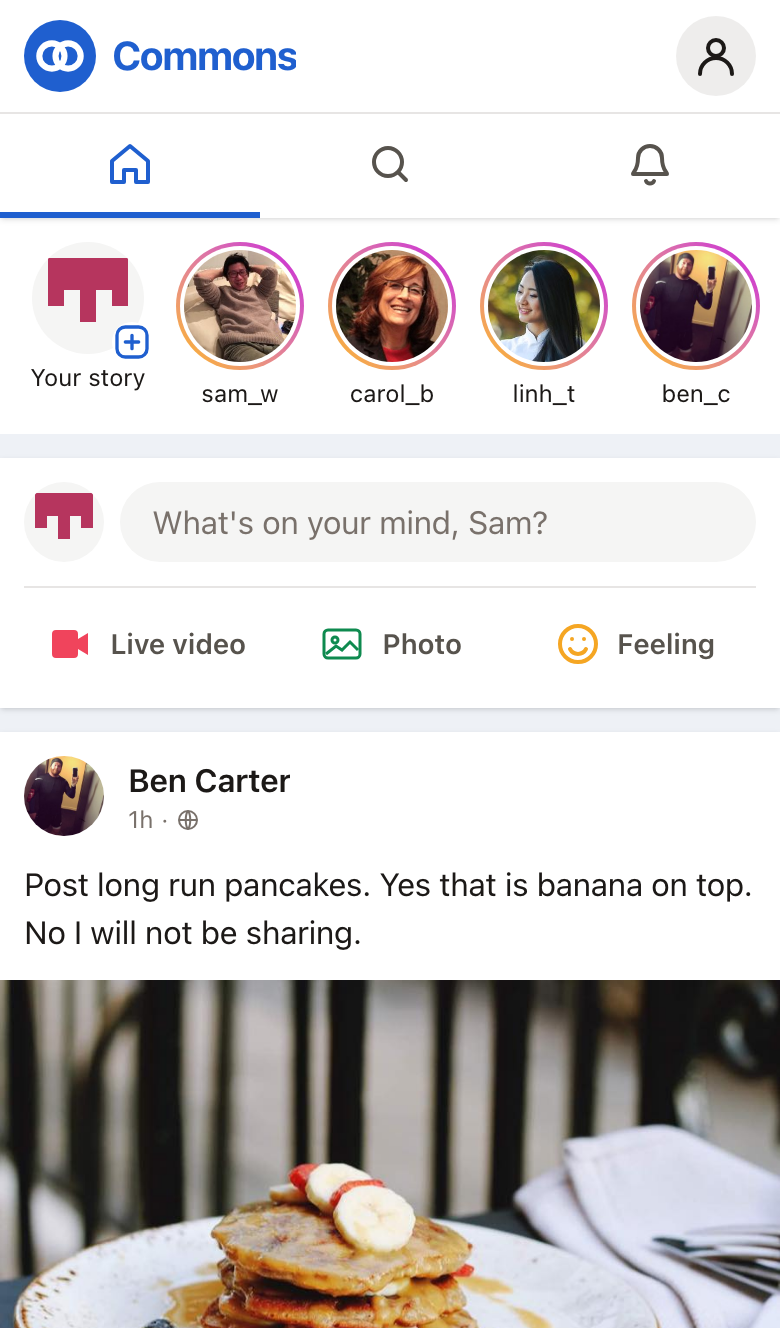
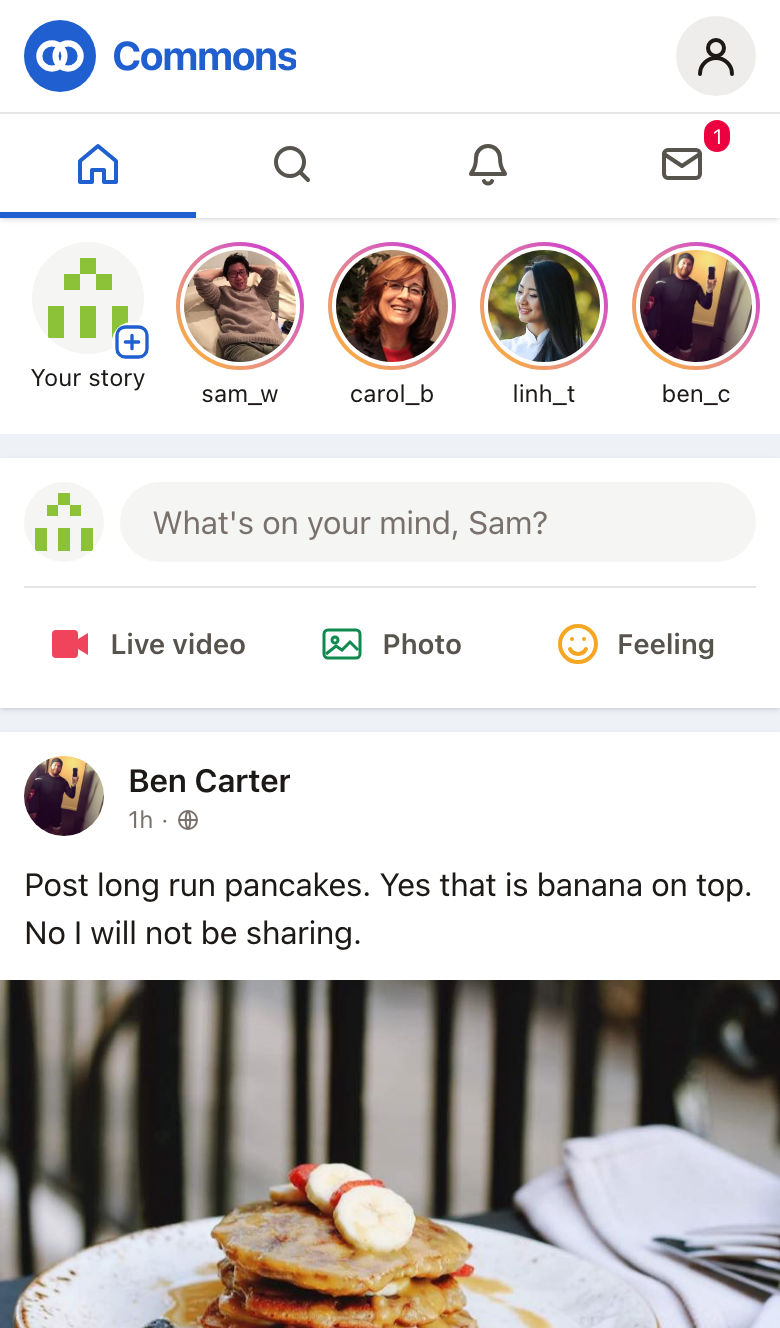
Samples that greet a new account, so Messages and Notifications aren't empty
Each kind's sample content turns on direct messages and has a few beats: a
hello as the participant arrives, and a couple of follows. The Forum sample's
communities get their own colors and fuller rules. A photo post's Reply is a
speech bubble, like the buttons beside it.

diff --git a/e2e/tests/docs-screenshots.spec.ts b/e2e/tests/docs-screenshots.spec.ts
@@ -119,6 +119,31 @@ test("takes the guide's pictures", async ({ page, browser }, testInfo) => {
     await participant.goto((await link.getAttribute("href")) as string);
     await reachFeed(participant);
     await participant.screenshot({ path: shot(`kind-${kind.file}`) });
+    // The pages beyond the feed on a phone, to look over.
+    const phoneOrigin = new URL(participant.url()).origin;
+    const firstOnPhone = async (selector: string) => {
+      const links = participant.locator(selector);
+      return (await links.count()) > 0 ? links.first().getAttribute("href") : null;
+    };
+    const phonePages: [string, string | null][] = [
+      ["someone", await firstOnPhone('article a[href^="/u/"]')],
+      ["post", await firstOnPhone('a[href^="/p/"]')],
+      ["notifications", "/notifications"],
+      ["explore", "/explore"],
+      ["spaces", "/spaces"],
+      ["messages", "/messages"],
+      ["account", "/account"],
+    ];
+    for (const [name, address] of phonePages) {
+      if (address) {
+        await participant.goto(phoneOrigin + address);
+        await participant.waitForLoadState("networkidle");
+        await participant.waitForTimeout(300);
+        await participant.screenshot({
+          path: testInfo.outputPath(`${kind.file}-phone-${name}.png`),
+        });
+      }
+    }
     await phone.close();
 
     // The same on a wide screen, where each kind lays its page out differently.
@@ -147,6 +172,9 @@ test("takes the guide's pictures", async ({ page, browser }, testInfo) => {
       ["notifications", "/notifications"],
       ["explore", "/explore"],
       ["account", "/account"],
+      ["spaces", "/spaces"],
+      ["messages", "/messages"],
+      ["rules", "/rules"],
     ];
     for (const [name, address] of more) {
       if (address) {
@@ -159,6 +187,28 @@ test("takes the guide's pictures", async ({ page, browser }, testInfo) => {
     await wide.getByRole("link", { name: "Profile" }).first().click();
     await wide.waitForLoadState("networkidle");
     await wide.screenshot({ path: testInfo.outputPath(`${kind.file}-me.png`) });
+    await wide.goto(`${origin}/messages`);
+    await wide.waitForLoadState("networkidle");
+    const talk = wide.locator('a[href^="/messages/"]');
+    if ((await talk.count()) > 0) {
+      await wide.screenshot({ path: testInfo.outputPath(`${kind.file}-messages.png`) });
+      await talk.first().click();
+      await wide.waitForLoadState("networkidle");
+      await wide.waitForTimeout(300);
+      await wide.screenshot({ path: testInfo.outputPath(`${kind.file}-conversation.png`) });
+    }
+    await wide.goto(`${origin}/notifications`);
+    await wide.waitForLoadState("networkidle");
+    await wide.screenshot({ path: testInfo.outputPath(`${kind.file}-notifications.png`) });
+    await wide.goto(`${origin}/spaces`);
+    await wide.waitForLoadState("networkidle");
+    const space = wide.locator('main a[href^="/spaces/"]');
+    if ((await space.count()) > 0) {
+      await space.first().click();
+      await wide.waitForLoadState("networkidle");
+      await wide.waitForTimeout(300);
+      await wide.screenshot({ path: testInfo.outputPath(`${kind.file}-space.png`) });
+    }
     await desk.close();
   }
 

diff --git a/packages/ui/src/features/comments.tsx b/packages/ui/src/features/comments.tsx
@@ -39,8 +39,8 @@ export function ReplyButton({
 }: {
   actions?: PostActions | undefined;
   post: Pick<FeedPost, "locked" | "removed">;
-  /** The word, or a speech bubble beside it, as a layout chooses. */
-  look?: "words" | "both";
+  /** The word, a speech bubble beside it, or the bubble alone, as a layout chooses. */
+  look?: "words" | "both" | "icon";
 }) {
   if (!useFeature("comments") || post.locked || post.removed) {
     return null;
@@ -49,11 +49,11 @@ export function ReplyButton({
     <button
       type="button"
       disabled={!actions}
-      className={look === "both" ? "flex items-center justify-center gap-1.5 py-2" : "py-3"}
+      className={look === "words" ? "py-3" : "flex items-center justify-center gap-1.5 py-2"}
       onClick={() => actions?.onReply()}
     >
-      {look === "both" && <CommentIcon className="h-5 w-5" />}
-      Reply
+      {look !== "words" && <CommentIcon {...(look === "icon" ? {} : { className: "h-5 w-5" })} />}
+      {look === "icon" ? <span className="sr-only">Reply</span> : "Reply"}
     </button>
   );
 }

diff --git a/packages/ui/src/FeedPostView.test.tsx b/packages/ui/src/FeedPostView.test.tsx
@@ -1267,3 +1267,23 @@ describe("a labeled post", () => {
     expect(screen.getByText("A post")).toBeTruthy();
   });
 });
+
+describe("replying on a photo post's own page", () => {
+  afterEach(cleanup);
+
+  it("is a speech bubble like the buttons beside it, and still called Reply", () => {
+    const onReply = vi.fn();
+    const actions = { onLike: vi.fn(), onVote: vi.fn(), onFlag: vi.fn(), onReply };
+    render(
+      <PlatformProvider platform={{ layout: "photo", features: TEMPLATES.photo.features }}>
+        <FeedPostView post={POST} detail actions={actions} />
+      </PlatformProvider>,
+    );
+
+    const reply = screen.getByRole("button", { name: "Reply" });
+    expect(reply.querySelector("svg")).toBeTruthy();
+    expect(reply.querySelector(".sr-only")?.textContent).toBe("Reply");
+    fireEvent.click(reply);
+    expect(onReply).toHaveBeenCalled();
+  });
+});

diff --git a/e2e/tests/new-study.spec.ts b/e2e/tests/new-study.spec.ts
@@ -321,9 +321,9 @@ test("a researcher writes beats in the builder, and sees what's wrong with them"
     await page.getByRole("radio", { name: /Sample content for Forum/ }).check();
   });
   await page.getByRole("link", { name: "Beats" }).click();
-  await expect(page.getByText("This study has no beats yet.")).toBeVisible();
-
+  // The sample comes with the note a new member gets, so there's something to read first.
   const beats = page.getByLabel("Beats", { exact: true });
+  await expect(beats).toHaveValue(/id: trailhead-welcomes/);
   const beat = (actor: string) => `beats:
   - id: welcome
     when: { participant: post, nth: 0 }

diff --git a/packages/ui/src/layouts/photo.tsx b/packages/ui/src/layouts/photo.tsx
@@ -173,7 +173,7 @@ export function PhotoPost({
             </>,
           )
         ) : detail ? (
-          <ReplyButton actions={actions} post={post} />
+          <ReplyButton actions={actions} post={post} look="icon" />
         ) : null}
         <RepostButton post={post} actions={actions} look="icon" />
         <ShareButton post={post} actions={actions} look="icon" />

diff --git a/apps/site/guide/first-study.md b/apps/site/guide/first-study.md
@@ -16,7 +16,7 @@ You need to be signed in to the admin app. On hosted Truman that's [app.truman-r
 2. Fill in **Title**. Only researchers see it.
 3. Fill in **Link name**, using lowercase letters, numbers, dashes, or underscores. Participants join at `/join/` followed by this name. It can't change later, so choose something a participant could see without learning what the study is about.
 4. Under **What kind of platform is it?**, pick a card. Each shows a small sample of its posts. If you're unsure, open **Help me decide**. The kind can't change once the study starts.
-5. Under **Where do you want to start?**, choose **Sample content** for the kind you picked. It copies in made-up people, posts, and pictures that you can change or delete.
+5. Under **Where do you want to start?**, choose **Sample content** for the kind you picked. It copies in made-up people, posts, and pictures, and a hello that arrives as a message, all of which you can change or delete.
 6. Under **How are people assigned to conditions?**, choose **Uniform** or **Blocked**. Blocked keeps the group sizes close together. Either is fine for now.
 7. Leave **Draft from a brief** empty, and press **Start the study**.
 

diff --git a/apps/site/guide/kinds-of-site.md b/apps/site/guide/kinds-of-site.md
@@ -64,7 +64,7 @@ On the **New study** page, each card shows the same sample post drawn the way th
 
 Answer no to all three and it suggests Classic.
 
-Choosing **Sample content** on the same page copies in made-up people and posts that use what that kind has, so you can see it working before you write anything.
+Choosing **Sample content** on the same page copies in made-up people and posts that use what that kind has, so you can see it working before you write anything. Each sample also has a few [beats](/guide/beats): someone sends a hello as you arrive and a couple of people follow you, so Messages and Notifications have something in them. They're on the Beats page, to change or delete like the rest.
 
 ## Turning features on and off
 
